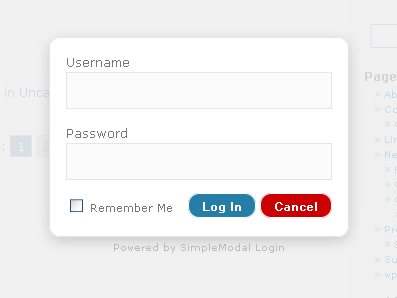
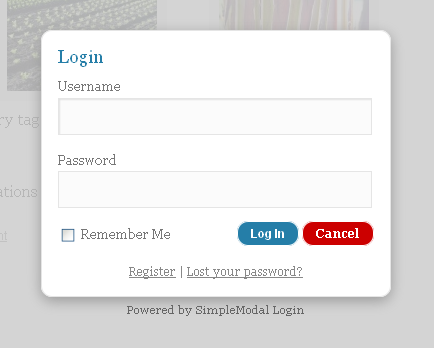
Final touches; almost ready to release. Still need the final SimpleModal release.

diff --git a/js/jquery.simplemodal.js b/js/jquery.simplemodal.js
@@ -1,7 +1,7 @@
- /*
+/*
  * SimpleModal 1.3.6 - jQuery Plugin
  * http://www.ericmmartin.com/projects/simplemodal/
  * Copyright (c) 2010 Eric Martin (http://twitter.com/ericmmartin)
  * Dual licensed under the MIT and GPL licenses
- * Revision: $Id: jquery.simplemodal.js 245 2010-03-25 20:41:15Z emartin24 $
- */;(function($){var ie6=$.browser.msie&&parseInt($.browser.version)==6&&typeof window['XMLHttpRequest']!="object",ieQuirks=null,w=[];$.modal=function(data,options){return $.modal.impl.init(data,options);};$.modal.close=function(){$.modal.impl.close();};$.fn.modal=function(options){return $.modal.impl.init(this,options);};$.modal.defaults={appendTo:'body',focus:true,opacity:50,overlayId:'simplemodal-overlay',overlayCss:{},containerId:'simplemodal-container',containerCss:{},dataId:'simplemodal-data',dataCss:{},minHeight:null,minWidth:null,maxHeight:null,maxWidth:null,zIndex:1000,close:true,closeHTML:'<a class="modalCloseImg" title="Close"></a>',closeClass:'simplemodal-close',escClose:true,overlayClose:false,position:null,persist:false,modal:true,onOpen:null,onShow:null,onClose:null};$.modal.impl={o:null,d:{},init:function(data,options){var s=this;if(s.d.data){return false;}ieQuirks=$.browser.msie&&!$.boxModel;s.o=$.extend({},$.modal.defaults,options);s.zIndex=s.o.zIndex;s.occb=false;if(typeof data=='object'){data=data instanceof jQuery?data:$(data);s.d.placeholder=false;if(data.parent().parent().size()>0){data.before($('<span></span>').attr('id','simplemodal-placeholder').css({display:'none'}));s.d.placeholder=true;s.display=data.css('display');if(!s.o.persist){s.d.orig=data.clone(true);}}}else if(typeof data=='string'||typeof data=='number'){data=$('<div></div>').html(data);}else{alert('SimpleModal Error: Unsupported data type: '+typeof data);return s;}s.create(data);data=null;s.open();if($.isFunction(s.o.onShow)){s.o.onShow.apply(s,[s.d]);}return s;},create:function(data){var s=this;w=s.getDimensions();if(s.o.modal&&ie6){s.d.iframe=$('<iframe src="javascript:false;"></iframe>').css($.extend(s.o.iframeCss,{display:'none',opacity:0,position:'fixed',height:w[0],width:w[1],zIndex:s.o.zIndex,top:0,left:0})).appendTo(s.o.appendTo);}s.d.overlay=$('<div></div>').attr('id',s.o.overlayId).addClass('simplemodal-overlay').css($.extend(s.o.overlayCss,{display:'none',opacity:s.o.opacity/100,height:s.o.modal?w[0]:0,width:s.o.modal?w[1]:0,position:'fixed',left:0,top:0,zIndex:s.o.zIndex+1})).appendTo(s.o.appendTo);s.d.container=$('<div></div>').attr('id',s.o.containerId).addClass('simplemodal-container').css($.extend(s.o.containerCss,{display:'none',position:'fixed',zIndex:s.o.zIndex+2})).append(s.o.close&&s.o.closeHTML?$(s.o.closeHTML).addClass(s.o.closeClass):'').appendTo(s.o.appendTo);s.d.wrap=$('<div></div>').attr('tabIndex',-1).addClass('simplemodal-wrap').css({height:'100%',outline:0,width:'100%'}).appendTo(s.d.container);s.d.data=data.attr('id',data.attr('id')||s.o.dataId).addClass('simplemodal-data').css($.extend(s.o.dataCss,{display:'none'})).appendTo('body');data=null;s.setContainerDimensions();s.d.data.appendTo(s.d.wrap);if(ie6||ieQuirks){s.fixIE();}},bindEvents:function(){var s=this;$('.'+s.o.closeClass).bind('click.simplemodal',function(e){e.preventDefault();s.close();});if(s.o.modal&&s.o.close&&s.o.overlayClose){s.d.overlay.bind('click.simplemodal',function(e){e.preventDefault();s.close();});}$(document).bind('keydown.simplemodal',function(e){if(s.o.modal&&s.o.focus&&e.keyCode==9){s.watchTab(e);}else if((s.o.close&&s.o.escClose)&&e.keyCode==27){e.preventDefault();s.close();}});$(window).bind('resize.simplemodal',function(){w=s.getDimensions();s.setPosition();if(ie6||ieQuirks){s.fixIE();}else if(s.o.modal){s.d.iframe&&s.d.iframe.css({height:w[0],width:w[1]});s.d.overlay.css({height:w[0],width:w[1]});}});},unbindEvents:function(){$('.'+this.o.closeClass).unbind('click.simplemodal');$(document).unbind('keydown.simplemodal');$(window).unbind('resize.simplemodal');this.d.overlay.unbind('click.simplemodal');},fixIE:function(){var s=this,p=s.o.position;ie6&&$('body').css({height:'100%',width:'100%'});$.each([s.d.iframe||null,!s.o.modal?null:s.d.overlay,s.d.container],function(i,el){if(el){var bch='document.body.clientHeight',bcw='document.body.clientWidth',bsh='document.body.scrollHeight',bsl='document.body.scrollLeft',bst='document.body.scrollTop',bsw='document.body.scrollWidth',ch='document.documentElement.clientHeight',cw='document.documentElement.clientWidth',sl='document.documentElement.scrollLeft',st='document.documentElement.scrollTop',s=el[0].style;s.position='absolute';if(i<2){s.removeExpression('height');s.removeExpression('width');s.setExpression('height',''+bsh+' > '+bch+' ? '+bsh+' : '+bch+' + "px"');s.setExpression('width',''+bsw+' > '+bcw+' ? '+bsw+' : '+bcw+' + "px"');}else{var te,le;if(p&&p.constructor==Array){var top=p[0]?typeof p[0]=='number'?p[0].toString():p[0].replace(/px/,''):el.css('top').replace(/px/,'');te=top.indexOf('%')==-1?top+' + (t = '+st+' ? '+st+' : '+bst+') + "px"':parseInt(top.replace(/%/,''))+' * (('+ch+' || '+bch+') / 100) + (t = '+st+' ? '+st+' : '+bst+') + "px"';if(p[1]){var left=typeof p[1]=='number'?p[1].toString():p[1].replace(/px/,'');le=left.indexOf('%')==-1?left+' + (t = '+sl+' ? '+sl+' : '+bsl+') + "px"':parseInt(left.replace(/%/,''))+' * (('+cw+' || '+bcw+') / 100) + (t = '+sl+' ? '+sl+' : '+bsl+') + "px"';}}else{te='('+ch+' || '+bch+') / 2 - (this.offsetHeight / 2) + (t = '+st+' ? '+st+' : '+bst+') + "px"';le='('+cw+' || '+bcw+') / 2 - (this.offsetWidth / 2) + (t = '+sl+' ? '+sl+' : '+bsl+') + "px"';}s.removeExpression('top');s.removeExpression('left');s.setExpression('top',te);s.setExpression('left',le);}}});},focus:function(pos){var s=this,p=pos||'first';var input=$(':input:enabled:visible:'+p,s.d.wrap);input.length>0?input.focus():s.d.wrap.focus();},getDimensions:function(){var el=$(window);var h=$.browser.opera&&$.browser.version>'9.5'&&$.fn.jquery<='1.2.6'?document.documentElement['clientHeight']:$.browser.opera&&$.browser.version<'9.5'&&$.fn.jquery>'1.2.6'?window.innerHeight:el.height();return[h,el.width()];},getVal:function(v){return v=='auto'?0:v.indexOf('%')>0?v:parseInt(v.replace(/px/,''));},resize:function(){var s=this;if(!s.d.data){return false;}s.d.container.css({height:'auto',width:'auto'});s.setContainerDimensions();s.focus();s.unbindEvents();s.bindEvents();},setContainerDimensions:function(){var s=this;var ch=$.browser.opera?s.d.container.height():s.getVal(s.d.container.css('height')),cw=$.browser.opera?s.d.container.width():s.getVal(s.d.container.css('width')),dh=s.d.data.outerHeight(true),dw=s.d.data.outerWidth(true);var mh=s.o.maxHeight&&s.o.maxHeight<w[0]?s.o.maxHeight:w[0],mw=s.o.maxWidth&&s.o.maxWidth<w[1]?s.o.maxWidth:w[1];if(!ch){if(!dh){ch=s.o.minHeight;}else{if(dh>mh){ch=mh;}else if(dh<s.o.minHeight){ch=s.o.minHeight;}else{ch=dh;}}}else{ch=ch>mh?mh:ch;}if(!cw){if(!dw){cw=s.o.minWidth;}else{if(dw>mw){cw=mw;}else if(dw<s.o.minWidth){cw=s.o.minWidth;}else{cw=dw;}}}else{cw=cw>mw?mw:cw;}s.d.container.css({height:ch,width:cw});if(dh>ch||dw>cw){s.d.wrap.css({overflow:'auto'});}s.setPosition();},setPosition:function(){var s=this,top,left,hc=(w[0]/2)-(s.d.container.outerHeight(true)/2),vc=(w[1]/2)-(s.d.container.outerWidth(true)/2);if(s.o.position&&Object.prototype.toString.call(s.o.position)==="[object Array]"){top=s.o.position[0]||hc;left=s.o.position[1]||vc;}else{top=hc;left=vc;}s.d.container.css({left:left,top:top});},watchTab:function(e){var s=this;if($(e.target).parents('.simplemodal-container').length>0){s.inputs=$(':input:enabled:visible:first, :input:enabled:visible:last',s.d.data[0]);if((!e.shiftKey&&e.target==s.inputs[s.inputs.length-1])||(e.shiftKey&&e.target==s.inputs[0])||s.inputs.length==0){e.preventDefault();var pos=e.shiftKey?'last':'first';setTimeout(function(){s.focus(pos);},10);}}else{e.preventDefault();setTimeout(function(){s.focus();},10);}},open:function(){var s=this;s.d.iframe&&s.d.iframe.show();if($.isFunction(s.o.onOpen)){s.o.onOpen.apply(s,[s.d]);}else{s.d.overlay.show();s.d.container.show();s.d.data.show();}s.focus();s.bindEvents();},close:function(){var s=this;if(!s.d.data){return false;}s.unbindEvents();if($.isFunction(s.o.onClose)&&!s.occb){s.occb=true;s.o.onClose.apply(s,[s.d]);}else{if(s.d.placeholder){var ph=$('#simplemodal-placeholder');if(s.o.persist){ph.replaceWith(s.d.data.removeClass('simplemodal-data').css('display',s.display));}else{s.d.data.hide().remove();ph.replaceWith(s.d.orig);}}else{s.d.data.hide().remove();}s.d.container.hide().remove();s.d.overlay.hide().remove();s.d.iframe&&s.d.iframe.hide().remove();s.d={};}}};})(jQuery);
+ * Revision: $Id: jquery.simplemodal.js 251 2010-07-21 05:39:45Z emartin24 $
+ */;(function($){var ie6=$.browser.msie&&parseInt($.browser.version)===6&&typeof window['XMLHttpRequest']!=='object',ieQuirks=null,w=[];$.modal=function(data,options){return $.modal.impl.init(data,options);};$.modal.close=function(){$.modal.impl.close();};$.fn.modal=function(options){return $.modal.impl.init(this,options);};$.modal.defaults={appendTo:'body',focus:true,opacity:50,overlayId:'simplemodal-overlay',overlayCss:{},containerId:'simplemodal-container',containerCss:{},dataId:'simplemodal-data',dataCss:{},minHeight:null,minWidth:null,maxHeight:null,maxWidth:null,autoResize:true,autoPosition:true,zIndex:1000,close:true,closeHTML:'<a class="modalCloseImg" title="Close"></a>',closeClass:'simplemodal-close',escClose:true,overlayClose:false,position:null,persist:false,modal:true,onOpen:null,onShow:null,onClose:null};$.modal.impl={d:{},init:function(data,options){var s=this;if(s.d.data){return false;}ieQuirks=$.browser.msie&&!$.boxModel;s.o=$.extend({},$.modal.defaults,options);s.zIndex=s.o.zIndex;s.occb=false;if(typeof data==='object'){data=data instanceof jQuery?data:$(data);s.d.placeholder=false;if(data.parent().parent().size()>0){data.before($('<span></span>').attr('id','simplemodal-placeholder').css({display:'none'}));s.d.placeholder=true;s.display=data.css('display');if(!s.o.persist){s.d.orig=data.clone(true);}}}else if(typeof data==='string'||typeof data==='number'){data=$('<div></div>').html(data);}else{alert('SimpleModal Error: Unsupported data type: '+typeof data);return s;}s.create(data);data=null;s.open();if($.isFunction(s.o.onShow)){s.o.onShow.apply(s,[s.d]);}return s;},create:function(data){var s=this;w=s.getDimensions();if(s.o.modal&&ie6){s.d.iframe=$('<iframe src="javascript:false;"></iframe>').css($.extend(s.o.iframeCss,{display:'none',opacity:0,position:'fixed',height:w[0],width:w[1],zIndex:s.o.zIndex,top:0,left:0})).appendTo(s.o.appendTo);}s.d.overlay=$('<div></div>').attr('id',s.o.overlayId).addClass('simplemodal-overlay').css($.extend(s.o.overlayCss,{display:'none',opacity:s.o.opacity/100,height:s.o.modal?w[0]:0,width:s.o.modal?w[1]:0,position:'fixed',left:0,top:0,zIndex:s.o.zIndex+1})).appendTo(s.o.appendTo);s.d.container=$('<div></div>').attr('id',s.o.containerId).addClass('simplemodal-container').css($.extend(s.o.containerCss,{display:'none',position:'fixed',zIndex:s.o.zIndex+2})).append(s.o.close&&s.o.closeHTML?$(s.o.closeHTML).addClass(s.o.closeClass):'').appendTo(s.o.appendTo);s.d.wrap=$('<div></div>').attr('tabIndex',-1).addClass('simplemodal-wrap').css({height:'100%',outline:0,width:'100%'}).appendTo(s.d.container);s.d.data=data.attr('id',data.attr('id')||s.o.dataId).addClass('simplemodal-data').css($.extend(s.o.dataCss,{display:'none'})).appendTo('body');data=null;s.setContainerDimensions();s.d.data.appendTo(s.d.wrap);if(ie6||ieQuirks){s.fixIE();}},bindEvents:function(){var s=this;$('.'+s.o.closeClass).bind('click.simplemodal',function(e){e.preventDefault();s.close();});if(s.o.modal&&s.o.close&&s.o.overlayClose){s.d.overlay.bind('click.simplemodal',function(e){e.preventDefault();s.close();});}$(document).bind('keydown.simplemodal',function(e){if(s.o.modal&&e.keyCode===9){s.watchTab(e);}else if((s.o.close&&s.o.escClose)&&e.keyCode===27){e.preventDefault();s.close();}});$(window).bind('resize.simplemodal',function(){w=s.getDimensions();s.o.autoResize?s.setContainerDimensions():s.o.autoPosition&&s.setPosition();if(ie6||ieQuirks){s.fixIE();}else if(s.o.modal){s.d.iframe&&s.d.iframe.css({height:w[0],width:w[1]});s.d.overlay.css({height:w[0],width:w[1]});}});},unbindEvents:function(){$('.'+this.o.closeClass).unbind('click.simplemodal');$(document).unbind('keydown.simplemodal');$(window).unbind('resize.simplemodal');this.d.overlay.unbind('click.simplemodal');},fixIE:function(){var s=this,p=s.o.position;$.each([s.d.iframe||null,!s.o.modal?null:s.d.overlay,s.d.container],function(i,el){if(el){var bch='document.body.clientHeight',bcw='document.body.clientWidth',bsh='document.body.scrollHeight',bsl='document.body.scrollLeft',bst='document.body.scrollTop',bsw='document.body.scrollWidth',ch='document.documentElement.clientHeight',cw='document.documentElement.clientWidth',sl='document.documentElement.scrollLeft',st='document.documentElement.scrollTop',s=el[0].style;s.position='absolute';if(i<2){s.removeExpression('height');s.removeExpression('width');s.setExpression('height',''+bsh+' > '+bch+' ? '+bsh+' : '+bch+' + "px"');s.setExpression('width',''+bsw+' > '+bcw+' ? '+bsw+' : '+bcw+' + "px"');}else{var te,le;if(p&&p.constructor===Array){var top=p[0]?typeof p[0]==='number'?p[0].toString():p[0].replace(/px/,''):el.css('top').replace(/px/,'');te=top.indexOf('%')===-1?top+' + (t = '+st+' ? '+st+' : '+bst+') + "px"':parseInt(top.replace(/%/,''))+' * (('+ch+' || '+bch+') / 100) + (t = '+st+' ? '+st+' : '+bst+') + "px"';if(p[1]){var left=typeof p[1]==='number'?p[1].toString():p[1].replace(/px/,'');le=left.indexOf('%')===-1?left+' + (t = '+sl+' ? '+sl+' : '+bsl+') + "px"':parseInt(left.replace(/%/,''))+' * (('+cw+' || '+bcw+') / 100) + (t = '+sl+' ? '+sl+' : '+bsl+') + "px"';}}else{te='('+ch+' || '+bch+') / 2 - (this.offsetHeight / 2) + (t = '+st+' ? '+st+' : '+bst+') + "px"';le='('+cw+' || '+bcw+') / 2 - (this.offsetWidth / 2) + (t = '+sl+' ? '+sl+' : '+bsl+') + "px"';}s.removeExpression('top');s.removeExpression('left');s.setExpression('top',te);s.setExpression('left',le);}}});},focus:function(pos){var s=this,p=pos||'first';var input=$(':input:enabled:visible:'+p,s.d.wrap);setTimeout(function(){input.length>0?input.focus():s.d.wrap.focus();},10);},getDimensions:function(){var el=$(window);var h=$.browser.opera&&$.browser.version>'9.5'&&$.fn.jquery<'1.3'||$.browser.opera&&$.browser.version<'9.5'&&$.fn.jquery>'1.2.6'?el[0].innerHeight:el.height();return[h,el.width()];},getVal:function(v,d){return v?(typeof v==='number'?v:v==='auto'?0:v.indexOf('%')>0?((parseInt(v.replace(/%/,''))/100)*(d==='h'?w[0]:w[1])):parseInt(v.replace(/px/,''))):null;},update:function(height,width){var s=this;if(!s.d.data){return false;}s.d.origHeight=s.getVal(height,'h');s.d.origWidth=s.getVal(width,'w');s.d.data.hide();height&&s.d.container.css('height',height);width&&s.d.container.css('width',width);s.setContainerDimensions();s.d.data.show();s.o.focus&&s.focus();s.unbindEvents();s.bindEvents();},setContainerDimensions:function(){var s=this;var ch=s.d.origHeight?s.d.origHeight:$.browser.opera?s.d.container.height():s.getVal(s.d.container.css('height'),'h'),cw=s.d.origWidth?s.d.origWidth:$.browser.opera?s.d.container.width():s.getVal(s.d.container.css('width'),'w'),dh=s.d.data.outerHeight(true),dw=s.d.data.outerWidth(true);s.d.origHeight=s.d.origHeight||ch;s.d.origWidth=s.d.origWidth||cw;var mxoh=s.o.maxHeight?s.getVal(s.o.maxHeight,'h'):null,mxow=s.o.maxWidth?s.getVal(s.o.maxWidth,'w'):null,mh=mxoh&&mxoh<w[0]?mxoh:w[0],mw=mxow&&mxow<w[1]?mxow:w[1];var moh=s.o.minHeight?s.getVal(s.o.minHeight,'h'):'auto';if(!ch){if(!dh){ch=moh;}else{if(dh>mh){ch=mh;}else if(s.o.minHeight&&moh!=='auto'&&dh<moh){ch=moh;}else{ch=dh;}}}else{ch=ch>mh?mh:ch;}var mow=s.o.minWidth?s.getVal(s.o.minWidth,'w'):'auto';if(!cw){if(!dw){cw=mow;}else{if(dw>mw){cw=mw;}else if(s.o.minWidth&&mow!=='auto'&&dw<mow){cw=mow;}else{cw=dw;}}}else{cw=cw>mw?mw:cw;}s.d.container.css({height:ch,width:cw});s.d.wrap.css({overflow:(dh>ch||dw>cw)?'auto':'visible'});s.o.autoPosition&&s.setPosition();},setPosition:function(){var s=this,top,left,hc=(w[0]/2)-(s.d.container.outerHeight(true)/2),vc=(w[1]/2)-(s.d.container.outerWidth(true)/2);if(s.o.position&&Object.prototype.toString.call(s.o.position)==='[object Array]'){top=s.o.position[0]||hc;left=s.o.position[1]||vc;}else{top=hc;left=vc;}s.d.container.css({left:left,top:top});},watchTab:function(e){var s=this;if($(e.target).parents('.simplemodal-container').length>0){s.inputs=$(':input:enabled:visible:first, :input:enabled:visible:last',s.d.data[0]);if((!e.shiftKey&&e.target===s.inputs[s.inputs.length-1])||(e.shiftKey&&e.target===s.inputs[0])||s.inputs.length===0){e.preventDefault();var pos=e.shiftKey?'last':'first';s.focus(pos);}}else{e.preventDefault();s.focus();}},open:function(){var s=this;s.d.iframe&&s.d.iframe.show();if($.isFunction(s.o.onOpen)){s.o.onOpen.apply(s,[s.d]);}else{s.d.overlay.show();s.d.container.show();s.d.data.show();}s.o.focus&&s.focus();s.bindEvents();},close:function(){var s=this;if(!s.d.data){return false;}s.unbindEvents();if($.isFunction(s.o.onClose)&&!s.occb){s.occb=true;s.o.onClose.apply(s,[s.d]);}else{if(s.d.placeholder){var ph=$('#simplemodal-placeholder');if(s.o.persist){ph.replaceWith(s.d.data.removeClass('simplemodal-data').css('display',s.display));}else{s.d.data.hide().remove();ph.replaceWith(s.d.orig);}}else{s.d.data.hide().remove();}s.d.container.hide().remove();s.d.overlay.hide();s.d.iframe&&s.d.iframe.hide().remove();setTimeout(function(){s.d.overlay.remove();s.d={};},10);}}};})(jQuery);

diff --git a/css/default.css b/css/default.css
@@ -5,28 +5,28 @@
  * Copyright (c) 2010 Eric Martin http://www.ericmmartin.com
  */
 
-#simplemodal-login-overlay {background-color:#eee;}
+#simplemodal-login-overlay {background-color:#ccc;}
 #simplemodal-login-container {width:350px;}
 #simplemodal-login-container a {color:#666;}
 #simplemodal-login-container .message,
 #simplemodal-login-container #login_error {background-color: #ffebe8; border:1px solid #c00; margin-bottom:8px; padding:6px; -moz-border-radius:3px; -webkit-border-radius:3px; border-radius:3px;}
 #simplemodal-login-container .message {background-color:#ffffe0; border-color:#e6db55;}
-#simplemodal-login-container form {background:#fff; border:1px solid #e5e5e5; font-weight:normal; margin-left:0 auto; padding:16px; text-align:left; -moz-border-radius:11px; -webkit-border-radius:11px; border-radius:5px; -moz-box-shadow:rgba(200,200,200,1) 0 4px 18px; -webkit-box-shadow:rgba(200,200,200,1) 0 4px 18px; box-shadow:rgba(200,200,200,1) 0 4px 18px;}
+#simplemodal-login-container form {background:#fff; border:1px solid #e5e5e5; font-weight:normal; margin-left:0 auto; padding:16px; text-align:left; -moz-border-radius:11px; -webkit-border-radius:11px; border-radius:5px; -moz-box-shadow:rgba(153,153,153,1) 0 4px 18px; -webkit-box-shadow:rgba(153,153,153,1) 0 4px 18px; box-shadow:rgba(153,153,153,1) 0 4px 18px;}
 #simplemodal-login-container form label {color:#777; font-size:13px;}
 #simplemodal-login-container form p {margin:0;}
-#simplemodal-login-container form .forgetmenot {font-size:11px; font-weight:normal; float:left; line-height:19px; margin-bottom:0; }
+#simplemodal-login-container form .forgetmenot {font-size:11px; font-weight:normal; float:left; line-height:19px; margin-bottom:0;}
 #simplemodal-login-container form .submit input {background-color:#257ea8; border:none; border:1px solid; color:#fff; font-weight:bold; padding:3px 10px; font-size:12px; -moz-border-radius:11px; -webkit-border-radius:11px; border-radius:11px; cursor:pointer; text-decoration:none; margin-top:-3px;}
 #simplemodal-login-container form .submit {float:right;}
 #simplemodal-login-container form .submit input.simplemodal-close {background-color:#c00;}
 #simplemodal-login-container .title {color:#257ea8; font-size:18px; padding-bottom:12px;}
-#simplemodal-login-container .nav {clear:both; color:#999; padding-top:16px; text-align:center;}
-#simplemodal-login-container .nav a {color:#999;}
+#simplemodal-login-container .nav {clear:both; color:#888; padding-top:16px; text-align:center;}
+#simplemodal-login-container .nav a {color:#888;}
 #simplemodal-login-container .reg_passmail {clear:both; color:#666; font-weight:bold; padding-bottom:16px; text-align:center;}
-#simplemodal-login-container .user_pass, 
-#simplemodal-login-container .user_login, 
+#simplemodal-login-container .user_pass,
+#simplemodal-login-container .user_login,
 #simplemodal-login-container .user_email {font-size:24px; width:97%; padding:3px; margin-top:2px; margin-right:6px; margin-bottom:16px; border:1px solid #e5e5e5; background:#fbfbfb;}
 #simplemodal-login-container .rememberme {vertical-align:middle;}
-#simplemodal-login-container .simplemodal-login-activity {background:url(../img/default/loading.gif) center no-repeat; height:16px; margin-bottom:12px;}
-#simplemodal-login-container .simplemodal-login-credit {font-size:10px; padding-top:4px; text-align:center;}
-#simplemodal-login-container .simplemodal-login-credit a {color:#bbb; text-decoration:none;}
-#simplemodal-login-container .simplemodal-login-credit a:hover {color:#999;}
+.simplemodal-login-activity {background:url(../img/default/loading.gif) center no-repeat; height:16px; margin-bottom:12px;}
+.simplemodal-login-credit {font-size:11px; padding-top:4px; text-align:center;}
+.simplemodal-login-credit a {color:#aaa; text-decoration:none;}
+.simplemodal-login-credit a:hover {color:#777;}

diff --git a/js/osx.js b/js/osx.js
@@ -60,7 +60,7 @@ jQuery(function ($) {
 			d.overlay.fadeIn('slow', function () {
 				d.data.show();
 				d.container.slideDown('slow', function () {
-					s.modal.focus();	
+					s.modal.focus();
 				});
 			});
 		},
@@ -72,14 +72,16 @@ jQuery(function ($) {
 				activity = $('.simplemodal-login-activity', form[0]);
 
 			// update and focus dialog
-			!obj && s.modal.update();
 			s.dialog.container.css({height:'auto'});
+
+			// remove any existing errors or messages
+			s.clear(s.dialog.container[0]);
 
 			form.unbind('submit.simplemodal-login').bind('submit.simplemodal-login', function (e) {
 				e.preventDefault();
 
 				// remove any existing errors or messages
-				$('#login_error, .message', s.dialog.container[0]).remove();
+				s.clear(s.dialog.container[0]);
 
 				if (s.isValid(form)) {
 					fields.hide(); activity.show();
@@ -131,6 +133,14 @@ jQuery(function ($) {
 									activity.hide(); fields.show();
 								}
 							}
+						},
+						error: function (xhr) {
+							$('p:first', form[0]).before(
+								$(document.createElement('div'))
+									.html('<strong>ERROR</strong>: ' + xhr.statusText)
+									.attr('id', 'login_error')
+							);
+							activity.hide(); fields.show();
 						}
 					});
 				}
@@ -149,10 +159,9 @@ jQuery(function ($) {
 				}
 			);
 		},
-		keydown: function (e) {
-			if (e.altKey && e.ctrlKey && e.keyCode === 76) {
-				$('.simplemodal-login').trigger('click.simplemodal-login');
-			}
+		/* utility functions */
+		clear: function (context) {
+			$('#login_error, .message', context).remove();
 		},
 		isValid: function (form) {
 			var log = $('.user_login', form[0]),
@@ -188,6 +197,11 @@ jQuery(function ($) {
 			}
 
 			return valid;
+		},
+		keydown: function (e) {
+			if (e.altKey && e.ctrlKey && e.keyCode === 76) {
+				$('.simplemodal-login').trigger('click.simplemodal-login');
+			}
 		},
 		message: function (key) {
 			return SimpleModalLoginL10n[key] ?

diff --git a/css/osx.css b/css/osx.css
@@ -16,7 +16,7 @@
 #simplemodal-login-container-osx .close {position:absolute; right:0;}
 #simplemodal-login-container-osx .close a {display:block; color:#777; font-size:14px; font-weight:bold; padding:6px 12px 0; text-decoration:none; text-shadow:1px 1px 0 #f4f4f4;}
 #simplemodal-login-container-osx .close a:hover {color:#000; text-decoration:underline;}
-#simplemodal-login-container-osx .simplemodal-login-fields {padding:0 12px 6px;}
+.simplemodal-login-fields {padding:0 12px 6px;}
 #simplemodal-login-container-osx form .submit {float:right;}
 #simplemodal-login-container-osx form .submit input {background-color:#ddd; border:1px solid #6d6d6d; margin-right:4px; padding:2px 6px; -moz-border-radius:10px; -webkit-border-radius:10px; border-radius:10px;}
 #simplemodal-login-container-osx form .submit input:hover {background-color:#63adf6;}
@@ -27,7 +27,7 @@
 #simplemodal-login-container-osx .user_login, 
 #simplemodal-login-container-osx .user_email {font-size:24px; width:97%; padding:3px; margin-top:2px; margin-right:6px; margin-bottom:12px; border:1px solid #e5e5e5; background:#fbfbfb;}
 #simplemodal-login-container-osx .rememberme {vertical-align:middle;}
-#simplemodal-login-container-osx .simplemodal-login-activity {background:url(../img/osx/loading.gif) center no-repeat; height:16px; margin-bottom:12px;}
-#simplemodal-login-container-osx .simplemodal-login-credit {font-size:10px; padding-top:10px; text-align:center;}
-#simplemodal-login-container-osx .simplemodal-login-credit a {color:#bbb; text-decoration:none;}
-#simplemodal-login-container-osx .simplemodal-login-credit a:hover {color:#999;}
+.simplemodal-login-activity {background:url(../img/osx/loading.gif) center no-repeat; height:16px; margin-top:12px;}
+.simplemodal-login-credit {font-size:10px; padding-top:10px; text-align:center;}
+.simplemodal-login-credit a {color:#bbb; text-decoration:none;}
+.simplemodal-login-credit a:hover {color:#999;}

diff --git a/js/default.js b/js/default.js
@@ -57,14 +57,16 @@ jQuery(function ($) {
 				activity = $('.simplemodal-login-activity', form[0]);
 
 			// update and focus dialog
-			!obj && s.modal.update();
 			s.dialog.container.css({height:'auto'});
+
+			// remove any existing errors or messages
+			s.clear(s.dialog.container[0]);
 
 			form.unbind('submit.simplemodal-login').bind('submit.simplemodal-login', function (e) {
 				e.preventDefault();
 
 				// remove any existing errors or messages
-				$('#login_error, .message', s.dialog.container[0]).remove();
+				s.clear(s.dialog.container[0]);
 
 				if (s.isValid(form)) {
 					fields.hide(); activity.show();
@@ -115,6 +117,14 @@ jQuery(function ($) {
 									activity.hide(); fields.show();
 								}
 							}
+						},
+						error: function (xhr) {
+							$('p:first', form[0]).before(
+								$(document.createElement('div'))
+									.html('<strong>ERROR</strong>: ' + xhr.statusText)
+									.attr('id', 'login_error')
+							);
+							activity.hide(); fields.show();
 						}
 					});
 				}
@@ -123,10 +133,9 @@ jQuery(function ($) {
 				}
 			});
 		},
-		keydown: function (e) {
-			if (e.altKey && e.ctrlKey && e.keyCode === 76) {
-				$('.simplemodal-login').trigger('click.simplemodal-login');
-			}
+		/* utility functions */
+		clear: function (context) {
+			$('#login_error, .message', context).remove();
 		},
 		isValid: function (form) {
 			var log = $('.user_login', form[0]),
@@ -162,6 +171,11 @@ jQuery(function ($) {
 			}
 
 			return valid;
+		},
+		keydown: function (e) {
+			if (e.altKey && e.ctrlKey && e.keyCode === 76) {
+				$('.simplemodal-login').trigger('click.simplemodal-login');
+			}
 		},
 		message: function (key) {
 			return SimpleModalLoginL10n[key] ?

diff --git a/simplemodal-login.php b/simplemodal-login.php
@@ -2,7 +2,7 @@
 /*
 Plugin Name: SimpleModal Login
 Plugin URI: http://www.ericmmartin.com/projects/simplemodal-login/
-Description: A modal Ajax login for WordPress which utilizes jQuery and the SimpleModal jQuery plugin.
+Description: A modal Ajax login, registration, and password reset feature for WordPress which utilizes jQuery and the SimpleModal jQuery plugin.
 Version: 1.0
 Author: Eric Martin
 Author URI: http://www.ericmmartin.com
